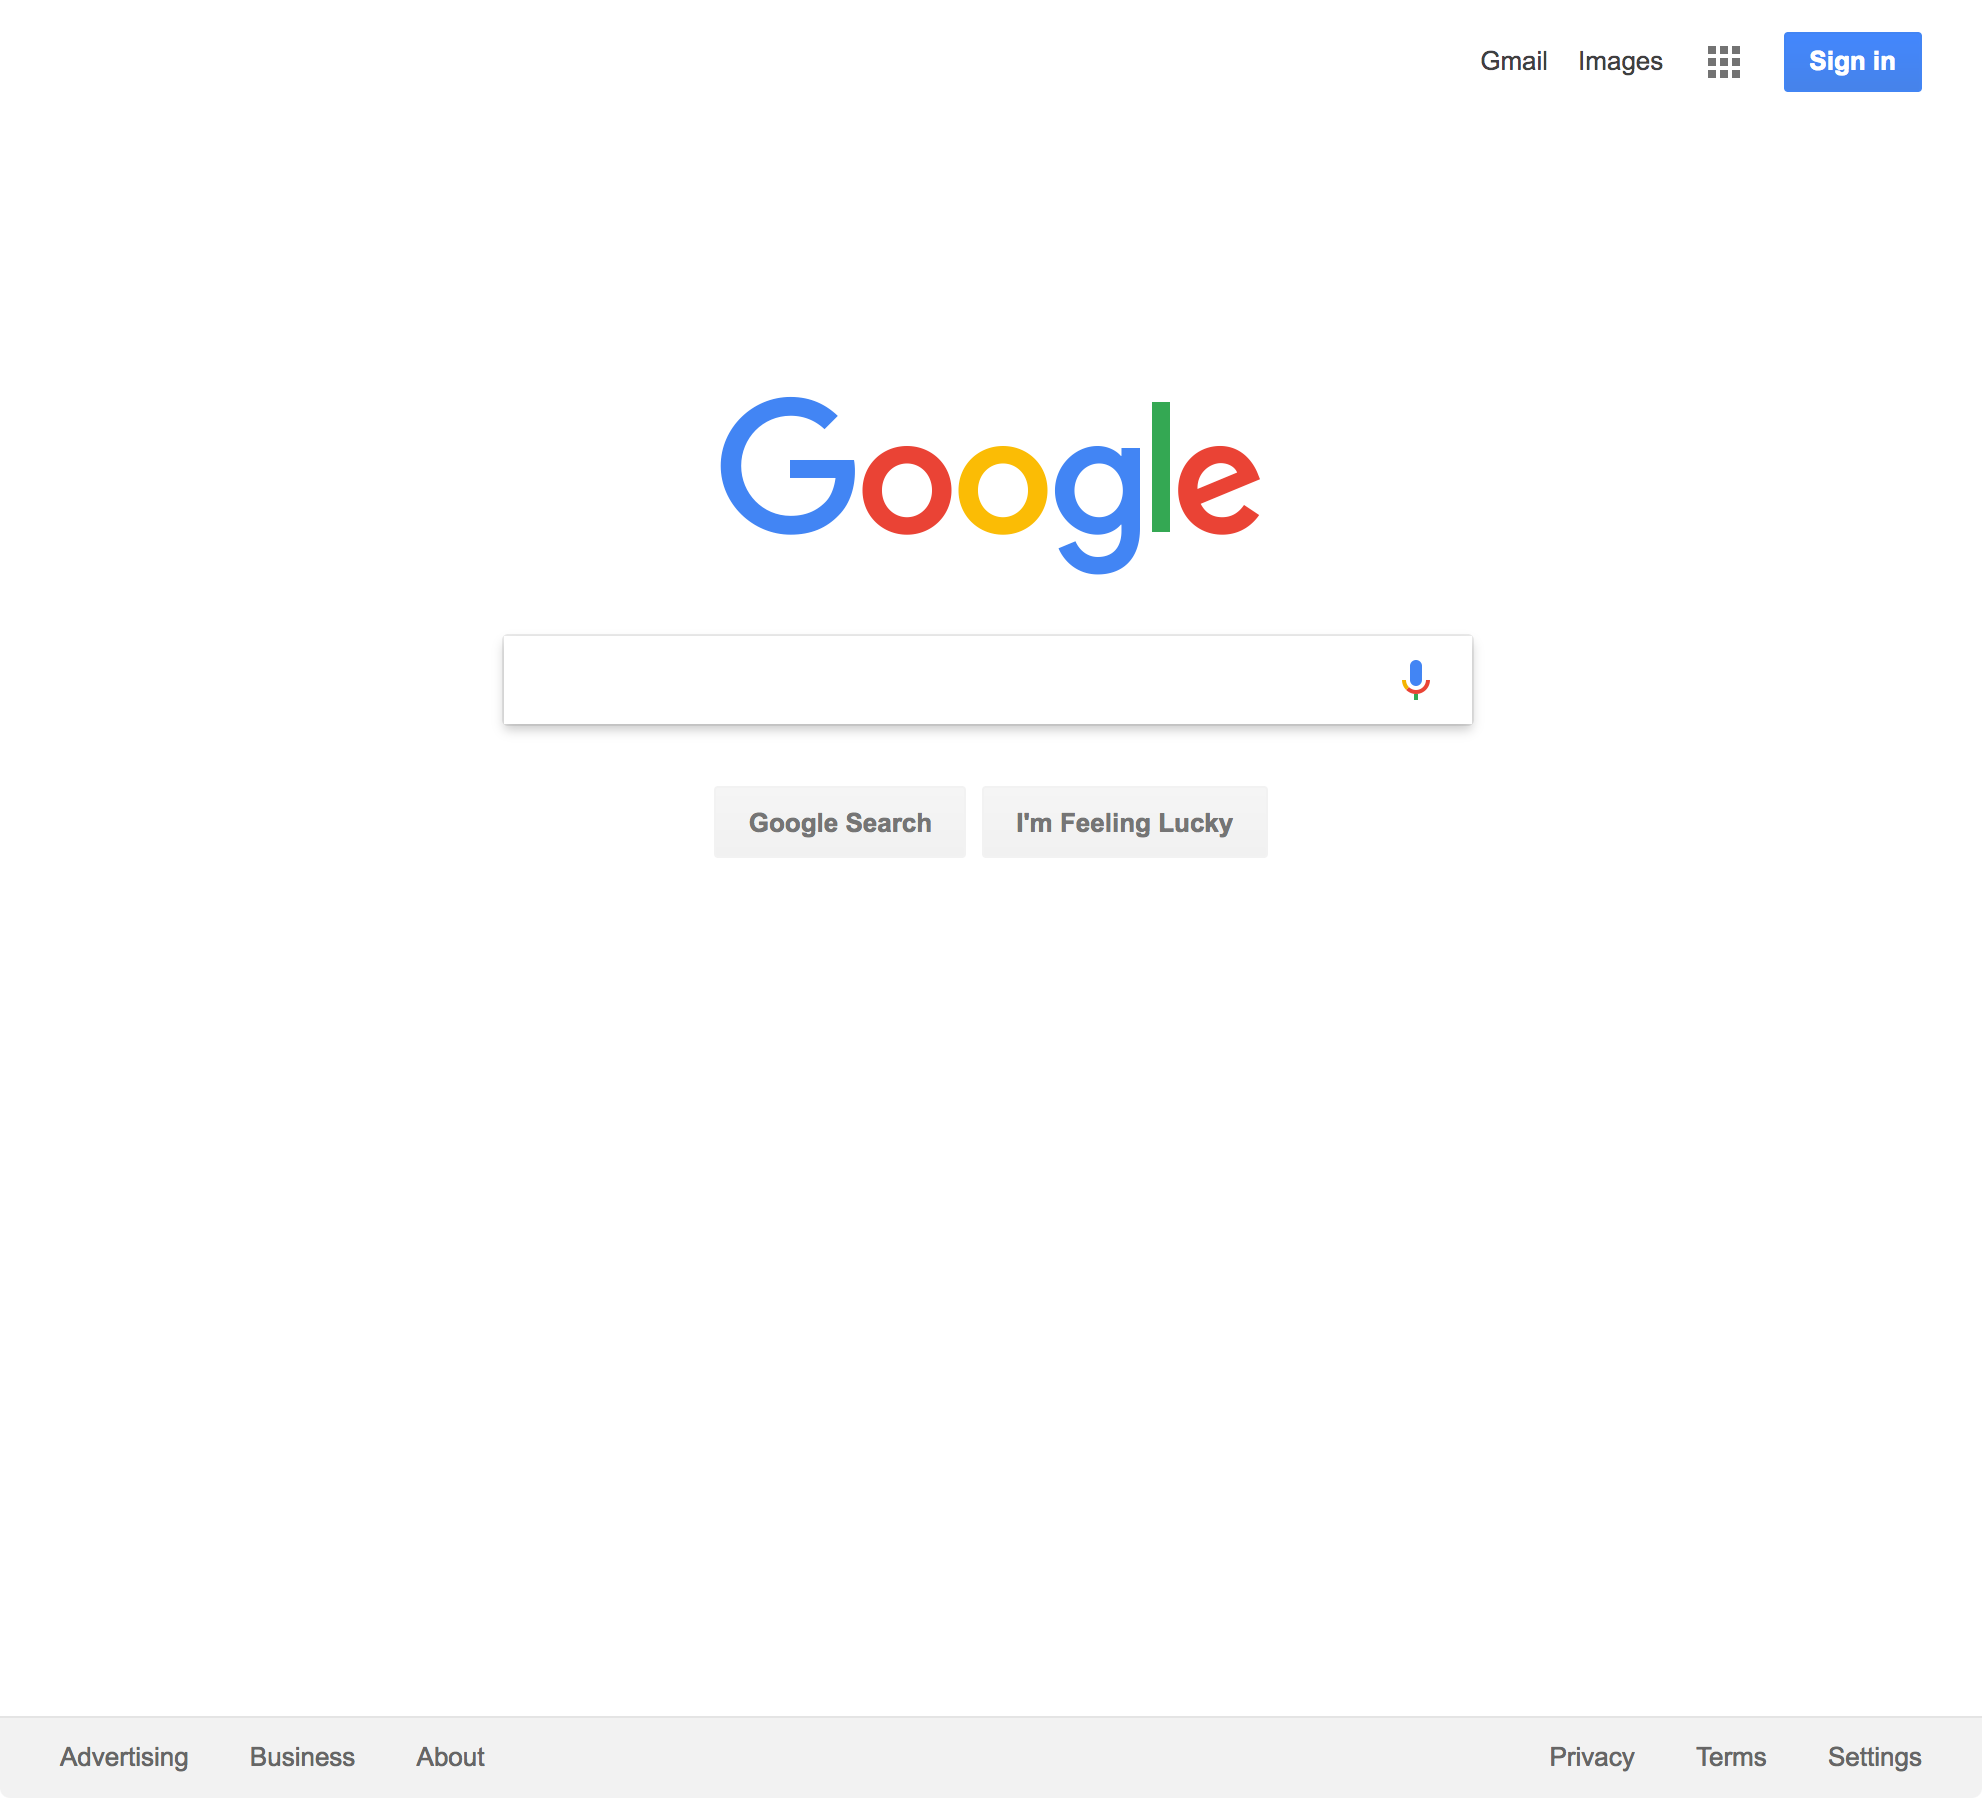
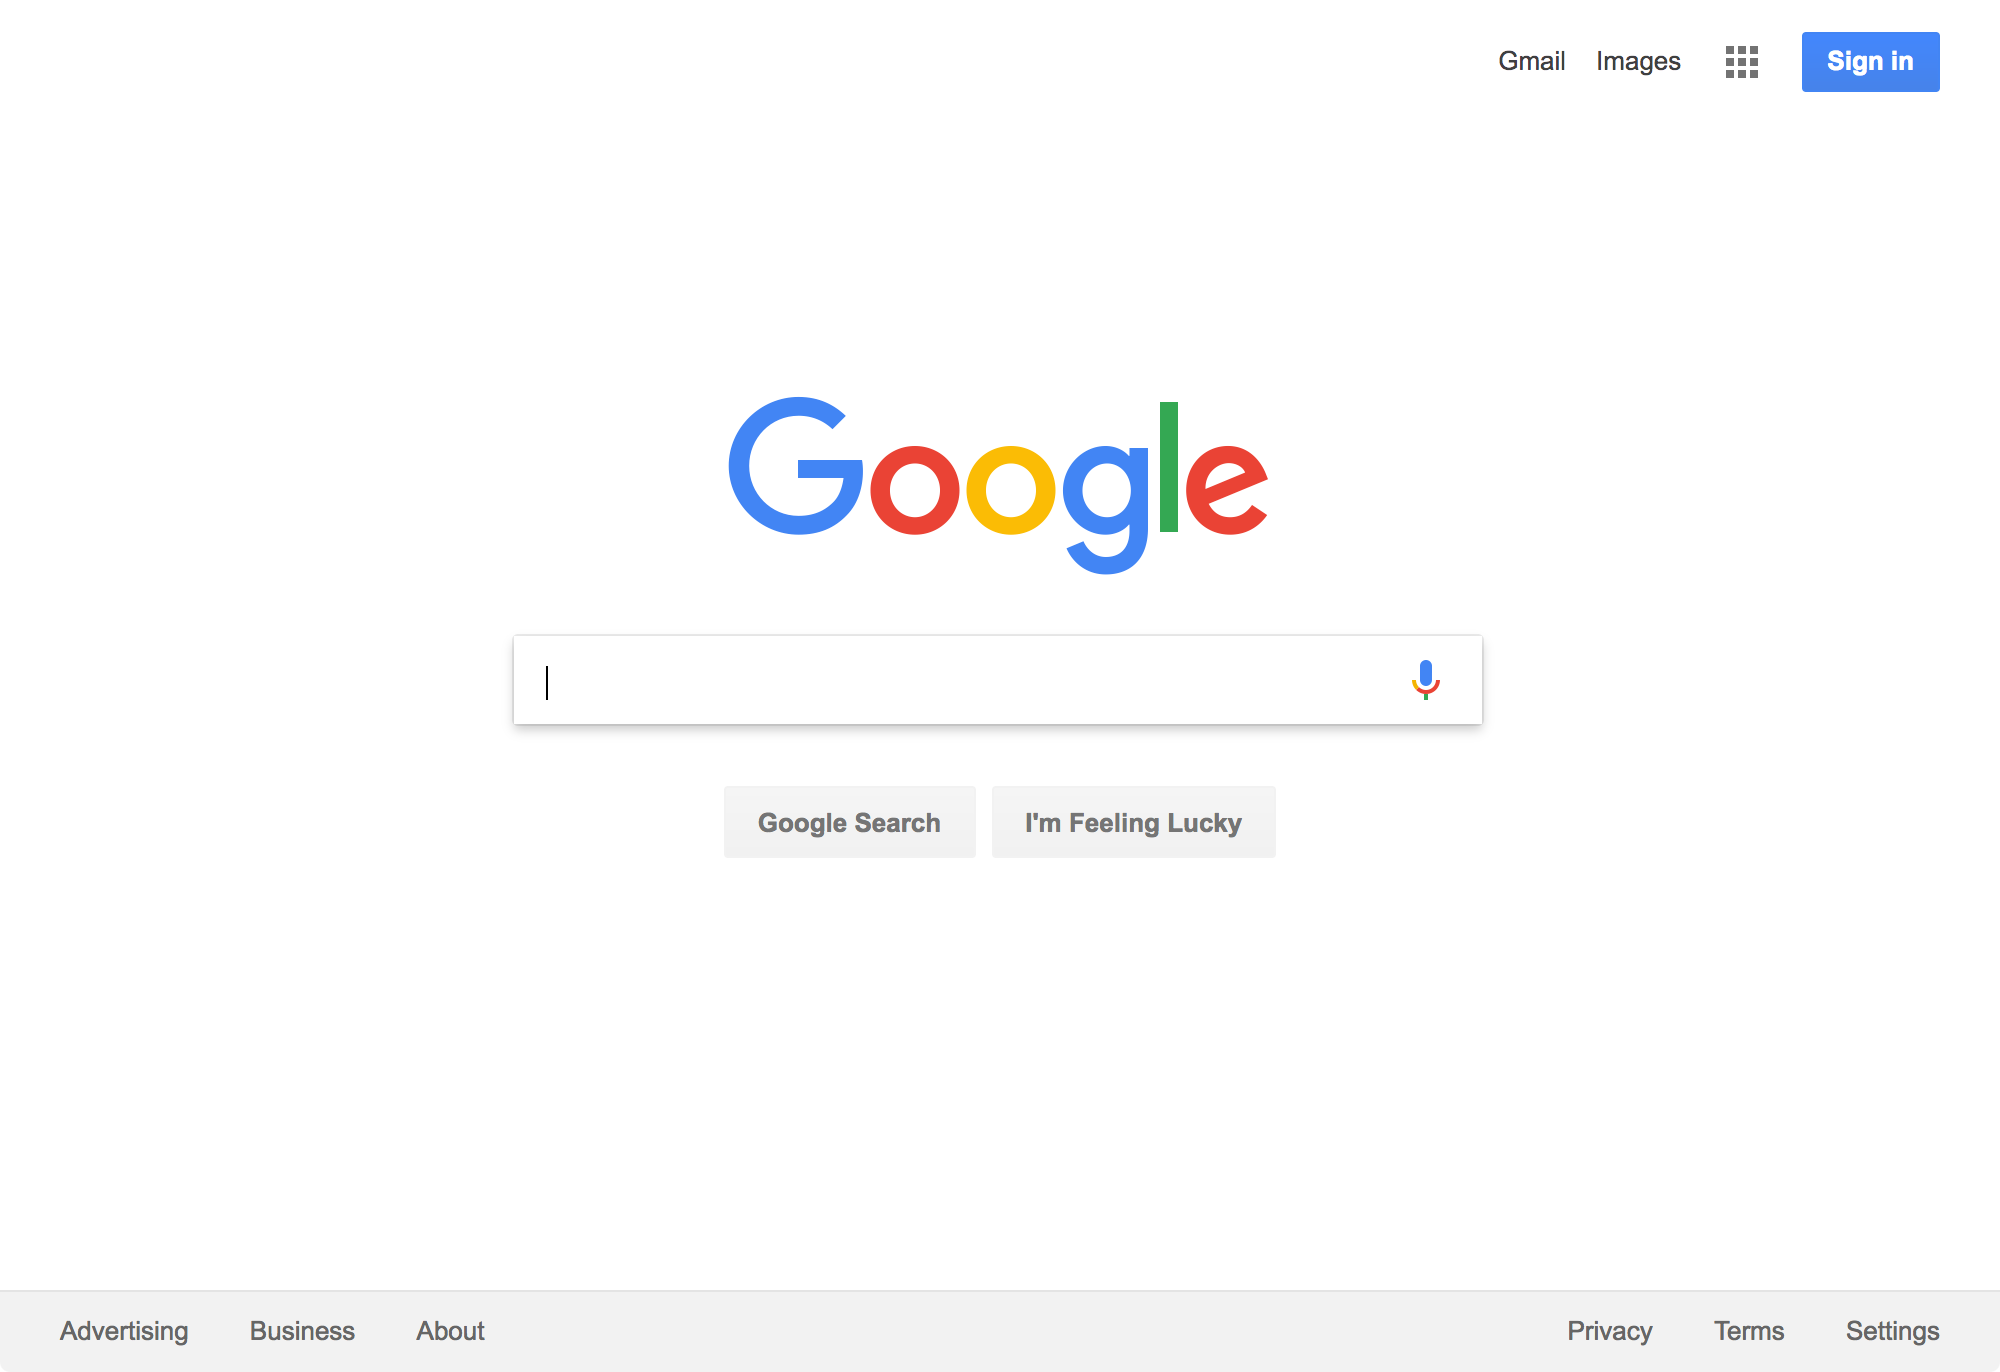
arrow and highlighter test driven annotations

diff --git a/td-testing-webui/src/main/java/com/twosigma/testing/webui/documentation/DocumentationDsl.java b/td-testing-webui/src/main/java/com/twosigma/testing/webui/documentation/DocumentationDsl.java
@@ -1,16 +1,17 @@
 package com.twosigma.testing.webui.documentation;
 
 import com.twosigma.testing.webui.cfg.Configuration;
+import com.twosigma.testing.webui.documentation.annotations.ArrowImageAnnotation;
+import com.twosigma.testing.webui.documentation.annotations.BadgeImageAnnotation;
+import com.twosigma.testing.webui.documentation.annotations.HighlighterImageAnnotation;
+import com.twosigma.testing.webui.documentation.annotations.ImageAnnotation;
 import com.twosigma.testing.webui.page.PageElement;
 import com.twosigma.utils.FileUtils;
 import com.twosigma.utils.JsonUtils;
 import org.openqa.selenium.*;
 
 import java.nio.file.Paths;
-import java.util.Arrays;
-import java.util.HashMap;
-import java.util.List;
-import java.util.Map;
+import java.util.*;
 
 import static java.util.stream.Collectors.toList;
 
@@ -20,10 +21,8 @@ import static java.util.stream.Collectors.toList;
 public class DocumentationDsl {
     private Configuration cfg = Configuration.INSTANCE;
 
-    private static final String BADGE = "circle";
-
     private TakesScreenshot screenshotTaker;
-    private List<Annotation> annotations;
+    private List<ImageAnnotation> annotations;
     private WebDriver driver;
 
     public DocumentationDsl(WebDriver driver) {
@@ -31,17 +30,25 @@ public class DocumentationDsl {
         this.screenshotTaker = (TakesScreenshot) driver;
     }
 
-    private DocumentationDsl(WebDriver driver, List<Annotation> annotations) {
+    private DocumentationDsl(WebDriver driver, List<ImageAnnotation> annotations) {
         this(driver);
         this.annotations = annotations;
     }
 
-    public DocumentationDsl withAnnotations(Annotation... annotations) {
+    public DocumentationDsl withAnnotations(ImageAnnotation... annotations) {
         return new DocumentationDsl(driver, assignDefaultText(Arrays.asList(annotations)));
     }
 
-    public static Annotation badge(PageElement pageElement) {
-        return new Annotation(BADGE, "", pageElement);
+    public static ImageAnnotation badge(PageElement pageElement) {
+        return new BadgeImageAnnotation(pageElement, "");
+    }
+
+    public static ImageAnnotation highlighter(PageElement pageElement) {
+        return new HighlighterImageAnnotation(pageElement);
+    }
+
+    public static ImageAnnotation arrow(PageElement pageElement, String text) {
+        return new ArrowImageAnnotation(pageElement, text);
     }
 
     public void capture(String screenshotName) {
@@ -66,26 +73,22 @@ public class DocumentationDsl {
                 annotationsJson);
     }
 
-    private Map<String, ?> createAnnotationData(Annotation annotation) {
-        Map<String, Object> data = new HashMap<>();
+    private Map<String, ?> createAnnotationData(ImageAnnotation annotation) {
+        Map<String, Object> data = new LinkedHashMap<>();
         data.put("id", annotation.getId());
         data.put("type", annotation.getType());
-
-        WebElement webElement = annotation.getPageElement().findElement();
-        Point location = webElement.getLocation();
-        data.put("x", location.getX());
-        data.put("y", location.getY());
-        data.put("r", 20);
         data.put("text", annotation.getText());
-        data.put("color", "red");
+        data.put("color", annotation.getColor());
+
+        annotation.addAnnotationData(data, annotation.getPageElement().findElement());
 
         return data;
     }
 
-    private List<Annotation> assignDefaultText(List<Annotation> annotations) {
+    private List<ImageAnnotation> assignDefaultText(List<ImageAnnotation> annotations) {
         int badgeNumber = 0;
-        for (Annotation annotation : annotations) {
-            if (annotation.getType().equals(BADGE)) {
+        for (ImageAnnotation annotation : annotations) {
+            if (annotation instanceof BadgeImageAnnotation) {
                 badgeNumber++;
                 annotation.setText(String.valueOf(badgeNumber));
             }

diff --git a/td-testing-webui/src/main/java/com/twosigma/testing/webui/documentation/annotations/ImageAnnotation.java b/td-testing-webui/src/main/java/com/twosigma/testing/webui/documentation/annotations/ImageAnnotation.java
@@ -1,0 +1,67 @@
+package com.twosigma.testing.webui.documentation.annotations;
+
+import com.twosigma.testing.webui.page.PageElement;
+import org.openqa.selenium.Dimension;
+import org.openqa.selenium.Point;
+import org.openqa.selenium.WebElement;
+
+import java.util.Map;
+import java.util.concurrent.atomic.AtomicInteger;
+
+/**
+ * @author mykola
+ */
+public abstract class ImageAnnotation {
+    private static AtomicInteger idGen = new AtomicInteger();
+
+    private String id;
+    private String type;
+    private String text;
+    private String color = "red";
+    private PageElement pageElement;
+
+    public ImageAnnotation(PageElement pageElement, String type, String text) {
+        this.id = type + idGen.incrementAndGet();
+        this.pageElement = pageElement;
+        this.type = type;
+        this.text = text;
+    }
+
+    public String getId() {
+        return id;
+    }
+
+    public String getType() {
+        return type;
+    }
+
+    public PageElement getPageElement() {
+        return pageElement;
+    }
+
+    public String getText() {
+        return text;
+    }
+
+    public void setText(String text) {
+        this.text = text;
+    }
+
+    public String getColor() {
+        return color;
+    }
+
+    public ImageAnnotation withColor(String color) {
+        this.color = color;
+        return this;
+    }
+
+    public abstract void addAnnotationData(Map<String, Object> data, WebElement webElement);
+
+    protected Point center(WebElement webElement) {
+        Point location = webElement.getLocation();
+        Dimension size = webElement.getSize();
+
+        return new Point(location.getX() + size.getWidth() / 2, location.getY() + size.getHeight() / 2);
+    }
+}

diff --git a/td-testing-webui/src/test/com/twosigma/testing/webui/WebTestDslDemo.java b/td-testing-webui/src/test/com/twosigma/testing/webui/WebTestDslDemo.java
@@ -1,12 +1,15 @@
 package com.twosigma.testing.webui;
 
+import com.twosigma.testing.webui.documentation.DocumentationDsl;
 import com.twosigma.testing.webui.driver.WebDriverCreator;
 import com.twosigma.testing.webui.page.PageElement;
 
 import static com.twosigma.testing.webui.WebTestDsl.$;
 import static com.twosigma.testing.webui.WebTestDsl.doc;
 import static com.twosigma.testing.webui.WebTestDsl.open;
+import static com.twosigma.testing.webui.documentation.DocumentationDsl.arrow;
 import static com.twosigma.testing.webui.documentation.DocumentationDsl.badge;
+import static com.twosigma.testing.webui.documentation.DocumentationDsl.highlighter;
 
 /**
  * @author mykola
@@ -15,8 +18,13 @@ public class WebTestDslDemo {
     public static void main(String[] args) {
         open("http://google.com");
 
-        PageElement logo = $("#hplogo");
-        doc.withAnnotations(badge(logo)).capture("test");
+        PageElement signIn = $("#gb_70");
+        PageElement input = $(".gsfi");
+        PageElement search = $("[name='btnK']");
+
+        doc.withAnnotations(badge(signIn),
+                highlighter(input).withColor("green"),
+                arrow(search, "Click This").withColor("yellow")).capture("test");
 
         WebDriverCreator.closeAll();
     }

diff --git a/td-testing-webui/src/main/java/com/twosigma/testing/webui/driver/WebDriverCreator.java b/td-testing-webui/src/main/java/com/twosigma/testing/webui/driver/WebDriverCreator.java
@@ -1,5 +1,6 @@
 package com.twosigma.testing.webui.driver;
 
+import org.openqa.selenium.Dimension;
 import org.openqa.selenium.WebDriver;
 import org.openqa.selenium.chrome.ChromeDriver;
 
@@ -14,7 +15,14 @@ public class WebDriverCreator {
 
     public static WebDriver create() {
         System.setProperty("webdriver.chrome.driver", "/Users/mykola/work/chromedriver");
-        return register(new ChromeDriver());
+        ChromeDriver driver = createChromeDriver();
+        initState(driver);
+
+        return register(driver);
+    }
+
+    private static ChromeDriver createChromeDriver() {
+        return new ChromeDriver();
     }
 
     public static void closeAll() {
@@ -25,5 +33,9 @@ public class WebDriverCreator {
     private static WebDriver register(WebDriver driver) {
         drivers.add(driver);
         return driver;
+    }
+
+    private static void initState(WebDriver driver) {
+        driver.manage().window().setSize(new Dimension(1000, 800));
     }
 }

diff --git a/td-testing-webui/src/main/java/com/twosigma/testing/webui/documentation/annotations/HighlighterImageAnnotation.java b/td-testing-webui/src/main/java/com/twosigma/testing/webui/documentation/annotations/HighlighterImageAnnotation.java
@@ -1,0 +1,28 @@
+package com.twosigma.testing.webui.documentation.annotations;
+
+import com.twosigma.testing.webui.page.PageElement;
+import org.openqa.selenium.Dimension;
+import org.openqa.selenium.Point;
+import org.openqa.selenium.WebElement;
+
+import java.util.Map;
+
+/**
+ * @author mykola
+ */
+public class HighlighterImageAnnotation extends ImageAnnotation {
+    public HighlighterImageAnnotation(PageElement pageElement) {
+        super(pageElement, "rectangle", "");
+    }
+
+    @Override
+    public void addAnnotationData(Map<String, Object> data, WebElement webElement) {
+        Point location = webElement.getLocation();
+        Dimension size = webElement.getSize();
+
+        data.put("x", location.getX());
+        data.put("y", location.getY());
+        data.put("width", size.getWidth());
+        data.put("height", size.getHeight());
+    }
+}

diff --git a/td-testing-webui/src/main/java/com/twosigma/testing/webui/documentation/annotations/ArrowImageAnnotation.java b/td-testing-webui/src/main/java/com/twosigma/testing/webui/documentation/annotations/ArrowImageAnnotation.java
@@ -1,0 +1,26 @@
+package com.twosigma.testing.webui.documentation.annotations;
+
+import com.twosigma.testing.webui.page.PageElement;
+import org.openqa.selenium.Point;
+import org.openqa.selenium.WebElement;
+
+import java.util.Map;
+
+/**
+ * @author mykola
+ */
+public class ArrowImageAnnotation extends ImageAnnotation {
+    public ArrowImageAnnotation(PageElement pageElement, String text) {
+        super(pageElement, "arrow", text);
+    }
+
+    @Override
+    public void addAnnotationData(Map<String, Object> data, WebElement webElement) {
+        Point location = center(webElement);
+
+        data.put("beginX", location.getX() - 50);
+        data.put("beginY", location.getY() + 90);
+        data.put("endX", location.getX());
+        data.put("endY", location.getY() + 8);
+    }
+}

diff --git a/td-testing-webui/src/main/java/com/twosigma/testing/webui/documentation/annotations/BadgeImageAnnotation.java b/td-testing-webui/src/main/java/com/twosigma/testing/webui/documentation/annotations/BadgeImageAnnotation.java
@@ -1,0 +1,26 @@
+package com.twosigma.testing.webui.documentation.annotations;
+
+import com.twosigma.testing.webui.page.PageElement;
+import org.openqa.selenium.Dimension;
+import org.openqa.selenium.Point;
+import org.openqa.selenium.WebElement;
+
+import java.util.Map;
+
+/**
+ * @author mykola
+ */
+public class BadgeImageAnnotation extends ImageAnnotation {
+    public BadgeImageAnnotation(PageElement pageElement, String text) {
+        super(pageElement, "circle", text);
+    }
+
+    @Override
+    public void addAnnotationData(Map<String, Object> data, WebElement webElement) {
+        Point location = center(webElement);
+
+        data.put("x", location.getX());
+        data.put("y", location.getY());
+        data.put("r", 20);
+    }
+}

diff --git a/td-documentation/documentation/synergy-with-testing/UI.md b/td-documentation/documentation/synergy-with-testing/UI.md
@@ -1,4 +1,4 @@
-# Screenshots with Annotations
+# Auto Annotations
 
 We saw (todo link) how you can annotate images using `include-image` plugin.
 Now let's automate the screenshot and annotations assigning process.
